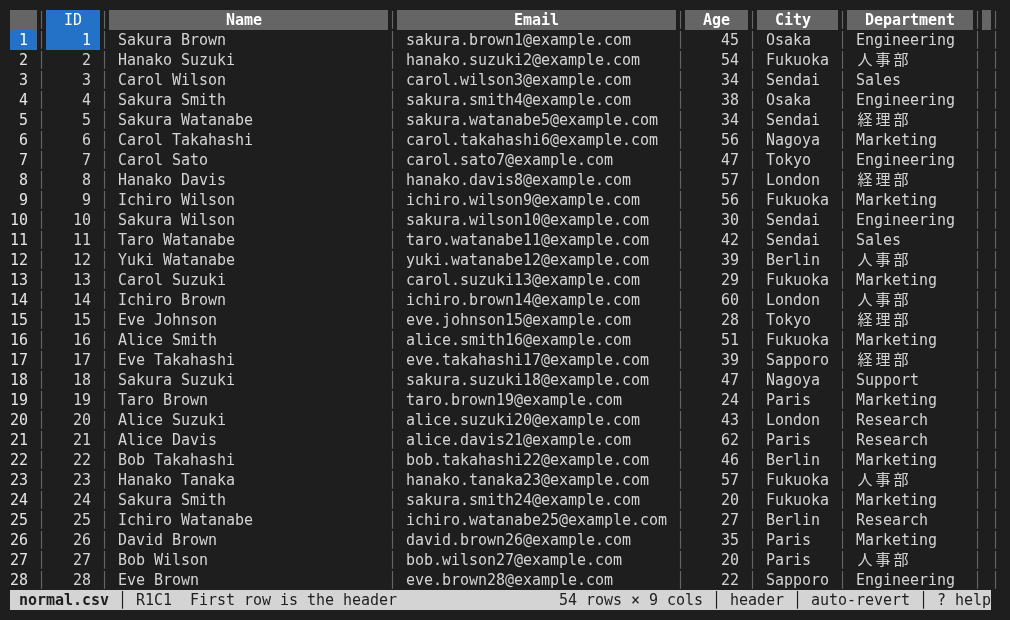
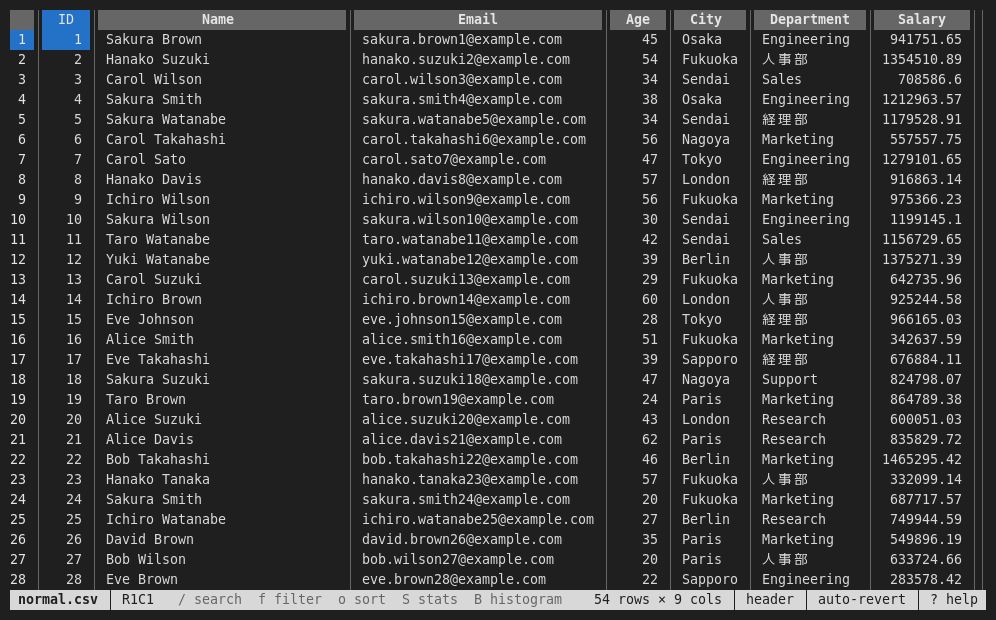
Show frequently used keys in the TUI status bar
New users had to open the help screen to find even the basic keys.
When no message is shown, the empty middle of the status bar now lists
the keys used most, as many whole hints as fit the terminal width.

- Normal mode lists search, filter, sort, statistics, histogram,
  density, SQL (only for books that support it), export, edit mode
  (only for editable formats) and quit; edit mode lists its own keys.
- Messages take precedence, and the histogram and density views show
  no hints since they have their own key line.
- The hints are grey text rather than dim: xterm dims the background
  of inverted text as well, which turned them into a grey block.
- Retake the TUI screenshots that show the status bar, and describe
  the hints in the manual.

Claude-Session: https://claude.ai/code/session_01GpozWMmmhApj5v8yF4Xud5

diff --git a/docs/ja/tui.md b/docs/ja/tui.md
@@ -38,7 +38,7 @@ tableskim-tui.exe data.csv  # Windows
 
 - **見出し** には列名（または列記号）と、並べ替え・フィルタの印が表示されます。現在のセルは強調表示されます。
 - 左に **行番号** が並びます。
-- 下部の **ステータスバー** には、ファイル名、現在のセル（`R1C1`）、メッセージ、行数と列数、有効なオプション（`header`、`auto-revert`、フィルタ、検索）が表示されます。
+- 下部の **ステータスバー** には、ファイル名、現在のセル（`R1C1`）、メッセージ、行数と列数、有効なオプション（`header`、`auto-revert`、フィルタ、検索）が表示されます。メッセージがないときは、よく使うキー（`/ search  f filter  o sort` …、編集モードでは `Enter edit  u undo  ^S save` …）を、収まるだけ表示します。
 - 複数のシートを持つファイルでは、上部に **シートタブ** が表示されます。
 
 `?`（または `F1`）でいつでもキーの一覧を表示できます。

diff --git a/docs/en/tui.md b/docs/en/tui.md
@@ -46,7 +46,9 @@ quit.
 - The **row numbers** are on the left.
 - The **status bar** at the bottom shows the file name, the current cell
   (`R1C1`), messages, the number of rows and columns, and the active
-  options (`header`, `auto-revert`, the filter, the search).
+  options (`header`, `auto-revert`, the filter, the search). When there is
+  no message, it lists the keys used most (`/ search  f filter  o sort`
+  …, and in edit mode `Enter edit  u undo  ^S save` …), as many as fit.
 - Files with several sheets show **sheet tabs** at the top.
 
 Press `?` (or `F1`) at any time for the list of keys.
